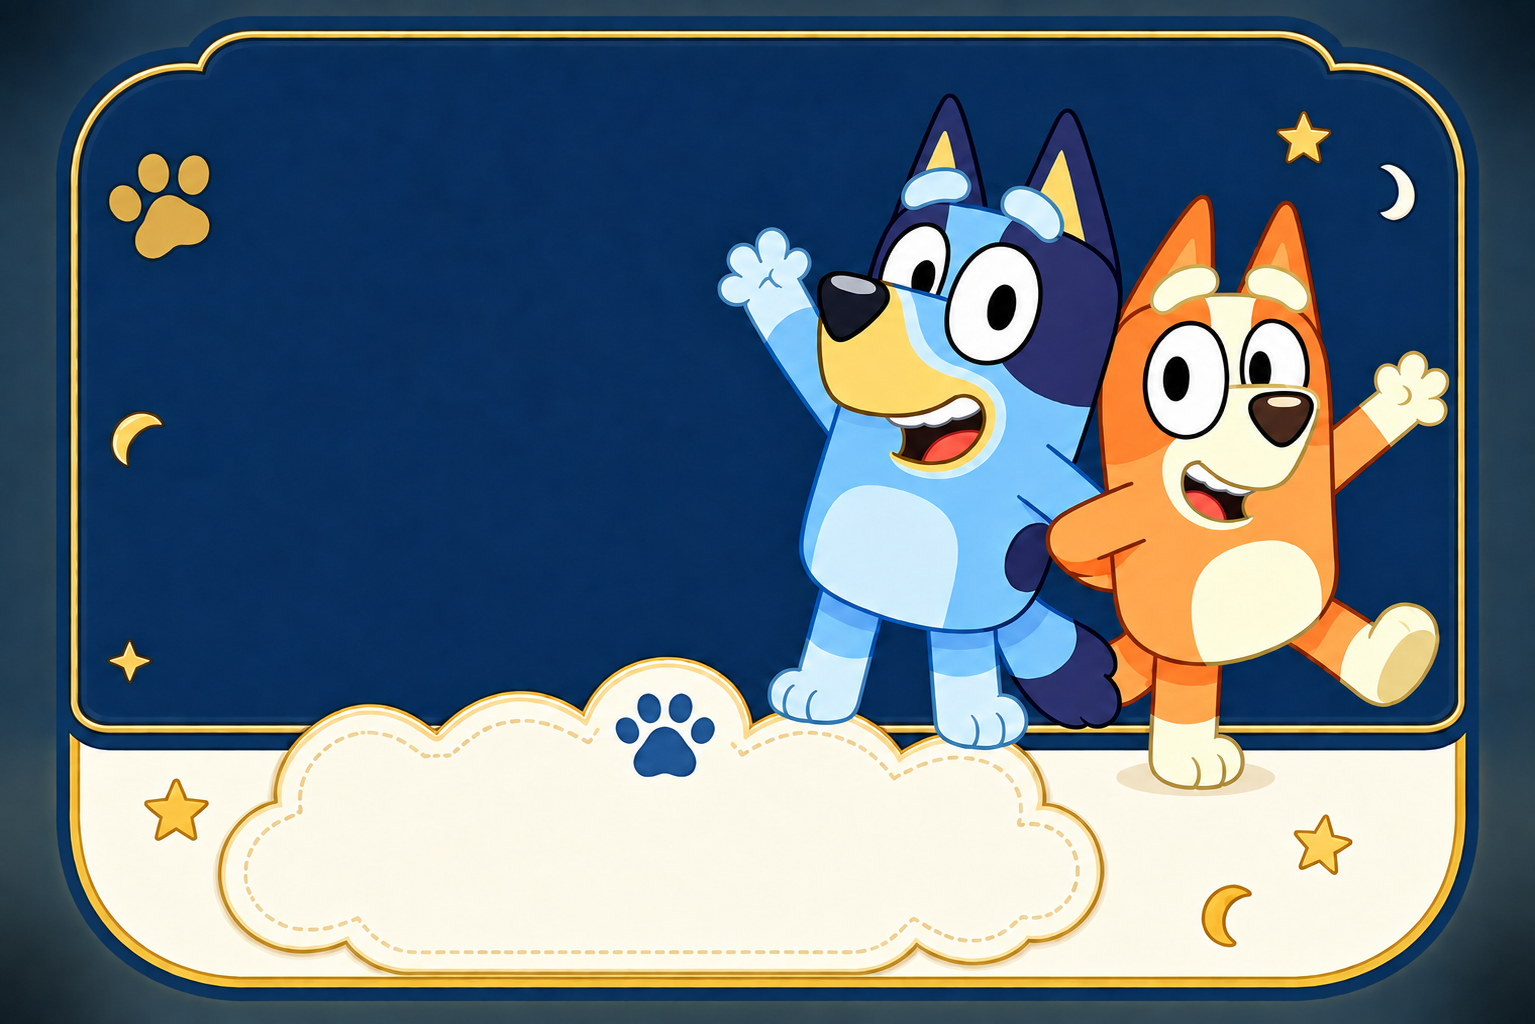
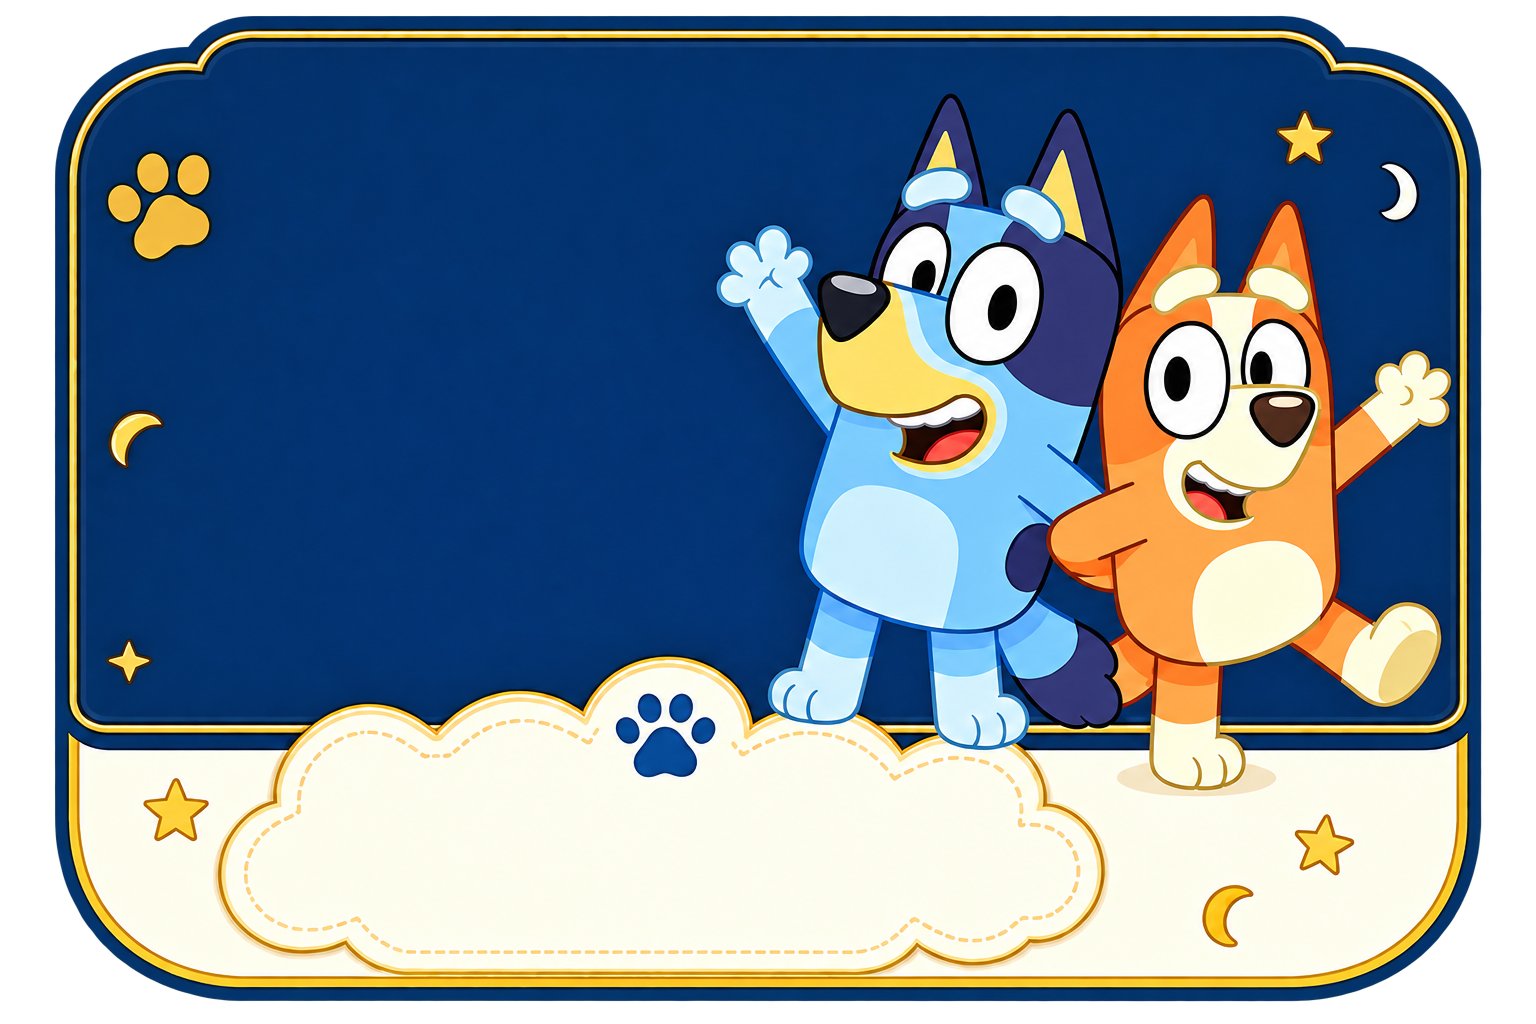
Replace RSVP card artwork

diff --git a/docs/overrides.css b/docs/overrides.css
@@ -49,7 +49,7 @@ body{background-image:linear-gradient(180deg,#07509a 0%,#2388cb 43%,#8ed2f1 74%,
 .gift-section>p{position:absolute;left:36%;top:35%;width:52%;height:53%;overflow:hidden;margin:0;font-family:Georgia,serif;font-size:clamp(8.5px,3cqw,22px);line-height:1.08;text-align:center}.gift-section>p strong{display:block;margin-top:clamp(3px,.8cqw,8px);color:#c78316;font-size:1.1em;text-transform:uppercase;letter-spacing:.02em}
 @media(max-width:420px){.gift-section>img{left:6%;bottom:14%;width:35%;height:58%}}
 
-.rsvp-section{position:relative;container-type:inline-size;width:100%;aspect-ratio:1535/1024;margin-top:18px;overflow:hidden;contain:paint;background:url("assets/rsvp-card.png") center/contain no-repeat;color:#fff}
+.rsvp-section{position:relative;container-type:inline-size;width:100%;aspect-ratio:3/2;margin-top:18px;overflow:hidden;contain:paint;background:url("assets/rsvp-card.png?v=2") center/contain no-repeat;color:#fff}
 .rsvp-section h2{position:absolute;top:13%;left:14%;width:31%;height:15%;overflow:hidden;margin:0;color:#f2c557;font-family:"Fredoka",Arial,sans-serif;font-size:clamp(13px,3cqw,30px);line-height:1.05;text-align:left;text-transform:uppercase;text-shadow:0 2px 2px #061d3d}
 .rsvp-section .rsvp-lead{position:absolute;top:31%;left:14%;width:28%;height:15%;overflow:hidden;margin:0;font-family:"Fredoka",Arial,sans-serif;font-size:clamp(9px,2.05cqw,20px);line-height:1.22;text-align:left;text-shadow:0 1px 1px #061d3d}
 .rsvp-section .rsvp-button{position:absolute;top:49%;left:12%;display:flex;box-sizing:border-box;width:30%;height:12%;overflow:hidden;align-items:center;justify-content:center;gap:clamp(2px,.7cqw,7px);margin:0;padding:clamp(3px,.8cqw,8px);border:clamp(1px,.35cqw,3px) solid #f8d56c;border-radius:999px;color:#65410b;background:linear-gradient(#ffe9a1,#dca72c);font-family:"Fredoka",Arial,sans-serif;font-size:clamp(8px,1.75cqw,17px);font-weight:700;text-transform:uppercase;box-shadow:inset 0 2px #fff4bd,0 3px 7px #001d42aa}.rsvp-button .paw-icon{width:1.2em;height:1.2em;flex:none;fill:#9b6a16}

diff --git a/app/globals.css b/app/globals.css
@@ -48,7 +48,7 @@ button{font:inherit}
 .gift-section>p{position:absolute;left:36%;top:35%;width:52%;height:53%;overflow:hidden;margin:0;font-family:Georgia,serif;font-size:clamp(8.5px,3cqw,22px);line-height:1.08;text-align:center}.gift-section>p strong{display:block;margin-top:clamp(3px,.8cqw,8px);color:#c78316;font-size:1.1em;text-transform:uppercase;letter-spacing:.02em}
 @media(max-width:420px){.gift-section>img{left:6%;bottom:14%;width:35%;height:58%}}
 
-.rsvp-section{position:relative;container-type:inline-size;width:100%;aspect-ratio:1535/1024;margin-top:18px;overflow:hidden;contain:paint;background:url("/assets/rsvp-card.png") center/contain no-repeat;color:#fff}
+.rsvp-section{position:relative;container-type:inline-size;width:100%;aspect-ratio:3/2;margin-top:18px;overflow:hidden;contain:paint;background:url("/assets/rsvp-card.png?v=2") center/contain no-repeat;color:#fff}
 .rsvp-section h2{position:absolute;top:13%;left:14%;width:31%;height:15%;overflow:hidden;margin:0;color:#f2c557;font-family:var(--font-fredoka),Arial,sans-serif;font-size:clamp(13px,3cqw,30px);line-height:1.05;text-align:left;text-transform:uppercase;text-shadow:0 2px 2px #061d3d}
 .rsvp-section .rsvp-lead{position:absolute;top:31%;left:14%;width:28%;height:15%;overflow:hidden;margin:0;font-family:var(--font-fredoka),Arial,sans-serif;font-size:clamp(9px,2.05cqw,20px);line-height:1.22;text-align:left;text-shadow:0 1px 1px #061d3d}
 .rsvp-section .rsvp-button{position:absolute;top:49%;left:12%;display:flex;box-sizing:border-box;width:30%;height:12%;overflow:hidden;align-items:center;justify-content:center;gap:clamp(2px,.7cqw,7px);margin:0;padding:clamp(3px,.8cqw,8px);border:clamp(1px,.35cqw,3px) solid #f8d56c;border-radius:999px;color:#65410b;background:linear-gradient(#ffe9a1,#dca72c);font-family:var(--font-fredoka),Arial,sans-serif;font-size:clamp(8px,1.75cqw,17px);font-weight:700;text-transform:uppercase;box-shadow:inset 0 2px #fff4bd,0 3px 7px #001d42aa}.rsvp-button .paw-icon{width:1.2em;height:1.2em;flex:none;fill:#9b6a16}

diff --git a/docs/index.html b/docs/index.html
@@ -1,5 +1,5 @@
 <!doctype html>
-<html lang="es"><head><meta charset="utf-8"><meta name="viewport" content="width=device-width,initial-scale=1"><meta name="theme-color" content="#07509a"><title>¡Mi cumple! | Invitación de Mateo</title><meta name="description" content="Acompáñanos a celebrar el cumpleaños de Mateo."><link rel="preconnect" href="https://fonts.googleapis.com"><link rel="preconnect" href="https://fonts.gstatic.com" crossorigin><link href="https://fonts.googleapis.com/css2?family=Fredoka:wght@500;600;700&display=swap" rel="stylesheet"><link rel="stylesheet" href="styles.css?v=52"><link rel="stylesheet" href="overrides.css?v=52"></head>
+<html lang="es"><head><meta charset="utf-8"><meta name="viewport" content="width=device-width,initial-scale=1"><meta name="theme-color" content="#07509a"><title>¡Mi cumple! | Invitación de Mateo</title><meta name="description" content="Acompáñanos a celebrar el cumpleaños de Mateo."><link rel="preconnect" href="https://fonts.googleapis.com"><link rel="preconnect" href="https://fonts.gstatic.com" crossorigin><link href="https://fonts.googleapis.com/css2?family=Fredoka:wght@500;600;700&display=swap" rel="stylesheet"><link rel="stylesheet" href="styles.css?v=53"><link rel="stylesheet" href="overrides.css?v=53"></head>
 <body><main class="invitation-page">
   <section class="hero-section" aria-label="Invitación para Mateo">
     <img class="balloons balloons-left" src="assets/balloons-left.png" alt=""><img class="balloons balloons-right" src="assets/balloons-right.png" alt="">
